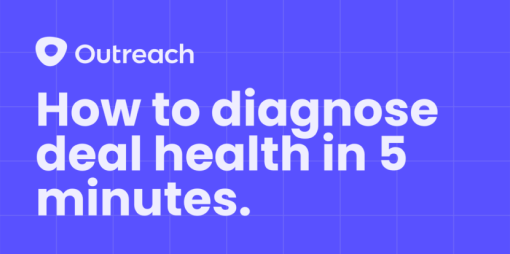
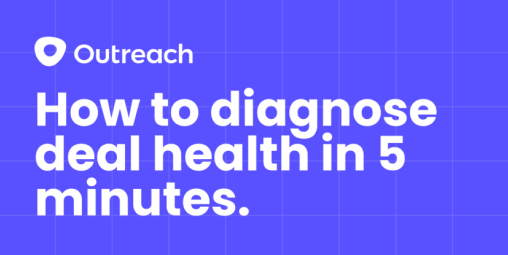
fix: replace placeholder image annd set correct position for cards inside related article

diff --git a/components/generic/card_outline_item/card_outline_item_variant3.module.scss b/components/generic/card_outline_item/card_outline_item_variant3.module.scss
@@ -20,13 +20,13 @@
 }
 
 .wrapper {
-  border: 0.15rem solid theme('colors.darkBlue');
-  border-radius: 1.2rem;
+  position: relative;
 }
 
 .category {
   padding: 1.8rem 4rem;
-  border-bottom: 0.15rem solid theme('colors.darkBlue');
+  border-radius: 1.2rem 1.2rem 0 0;
+  border: 0.15rem solid theme('colors.darkBlue');
 
   @screen md {
     padding: 1.2rem 2.4rem;
@@ -39,7 +39,8 @@
 
 .topSection {
   > div {
-    border: 0.15rem solid theme('colors.darkBlue');
+    border: 0.15rem theme('colors.darkBlue');
+    border-style: none solid;
     height: 13.5rem;
     width: 100%;
     background-size: 31.2rem 16rem;
@@ -56,22 +57,24 @@
 
   @screen lg {
     > div {
-      background-size: 28.2rem 13.8rem;
-      background-position: 0.3rem -0.4rem;
+      background-size: 28rem 13.8rem;
+      background-position: 0.5rem -0.1rem;
     }
   }
 
   @screen xl {
     > div {
       height: 19rem;
-      background-size: 38.6rem 19.5rem;
-      background-position: 0.4rem -0.4rem;
+      background-size: 38.1rem 19.3rem;
+      background-position: 0.7rem -0.2rem;
     }
   }
 }
 
 .bottomSection {
   padding: 1.959rem 1.959rem 1.5rem;
+  border-radius: 0 0 1.2rem 1.2rem;
+  border: 0.15rem solid theme('colors.darkBlue');
 
   > *:last-child {
     margin-bottom: 0;

diff --git a/components/generic/card_outline_item/card_outline_item_variant2.module.scss b/components/generic/card_outline_item/card_outline_item_variant2.module.scss
@@ -21,13 +21,13 @@
 }
 
 .wrapper {
-  border: 0.15rem solid theme('colors.darkBlue');
-  border-radius: 1.2rem;
+  position: relative;
 }
 
 .category {
-  border-bottom: 0.15rem solid theme('colors.darkBlue');
   padding: 1.2rem 2.4rem;
+  border-radius: 1.2rem 1.2rem 0 0;
+  border: 0.15rem solid theme('colors.darkBlue');
 
   @screen lg {
     padding: 1.8rem 4rem;
@@ -36,11 +36,12 @@
 
 .topSection {
   > div {
-    border: 0.15rem solid theme('colors.darkBlue');
+    border: 0.15rem theme('colors.darkBlue');
+    border-style: none solid;
     height: 13.5rem;
     width: 100%;
-    background-size: 31.2rem 16rem;
-    background-position: 0.4rem -1.4rem;
+    background-size: 31.3rem 16rem;
+    background-position: 0.6rem -1.2rem;
   }
 
   @screen md {
@@ -69,7 +70,8 @@
 
 .bottomSection {
   padding: 1.959rem 1.959rem 1.7rem;
-  border-top: 0.15rem solid theme('colors.darkBlue');
+  border-radius: 0 0 1.2rem 1.2rem;
+  border: 0.15rem solid theme('colors.darkBlue');
 
   > *:last-child {
     margin-bottom: 0;
